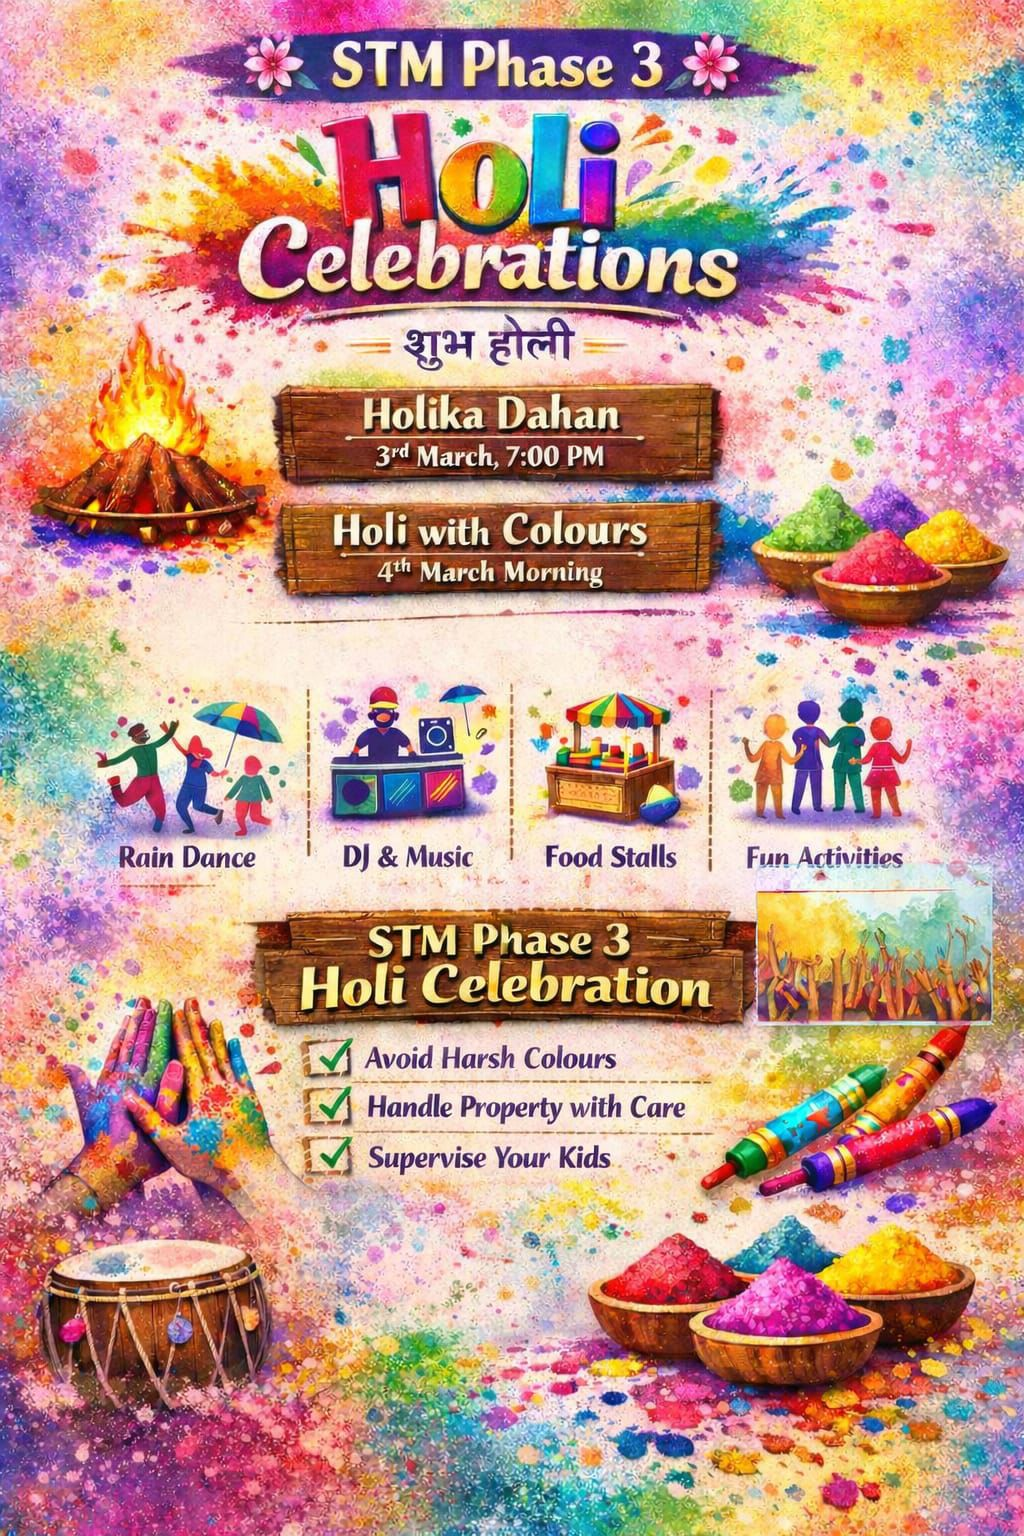
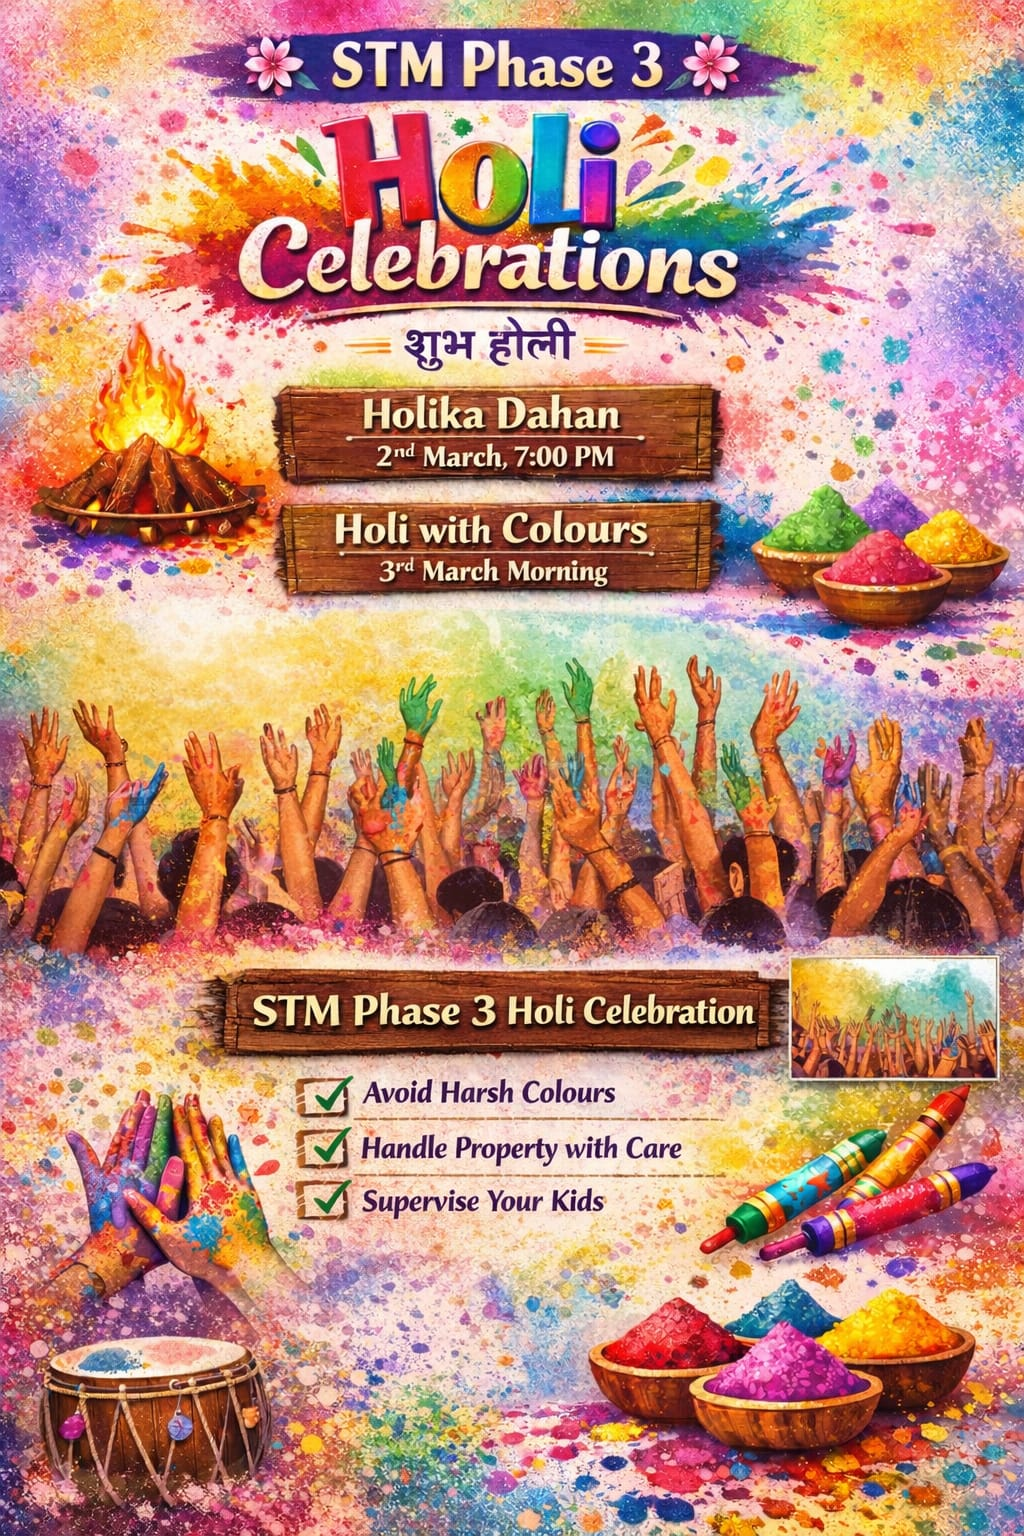
commit

diff --git a/seed-vercel.ts b/seed-vercel.ts
@@ -28,7 +28,7 @@ async function main() {
       },
       {
         title: "Upcoming: STM Phase 3 Holi Celebrations!",
-        message: "Join us for Holi celebrations! Holika Dahan on March 3rd at 7:00 PM, followed by Holi with Colours on March 4th Morning. Featuring Rain Dance, DJ, Food Stalls, and Fun Activities for everyone."
+        message: "STM Phase 3 🌸 Holi Celebrations 🌸 शुभ होली\n\n🔥 Holika Dahan: 2nd March, 7:00 PM\n\n🎨 Holi with Colours: 3rd March Morning\n\nSTM Phase 3 Holi Celebration\n\n✔ Avoid Harsh Colours\n✔ Handle Property with Care\n✔ Supervise Your Kids"
       },
       {
         title: "Flash News: Women's Day LIVA EXPO! 🌟",
@@ -78,8 +78,8 @@ async function main() {
       },
       {
         title: "STM Phase 3 Holi Celebrations",
-        description: "शुभ होली (Happy Holi) Holika Dahan: 3rd March, 7:00 PM Holi with Colours: 4th March, Morning Key Attractions: - Rain Dance - DJ & Music - Food Stalls - Fun Activities Community Guidelines: - Avoid Harsh Colours - Handle Property with Care - Supervise Your Kids",
-        date: new Date("2026-03-03"),
+        description: "STM Phase 3 🌸 Holi Celebrations 🌸 शुभ होली\n\n🔥 Holika Dahan: 2nd March, 7:00 PM\n\n🎨 Holi with Colours: 3rd March Morning\n\nKey Attractions:\n- Rain Dance\n- DJ & Music\n- Food Stalls\n- Fun Activities\n\nCommunity Guidelines:\n✔ Avoid Harsh Colours\n✔ Handle Property with Care\n✔ Supervise Your Kids",
+        date: new Date("2026-03-02"),
         time: "7:00 PM onwards",
         location: "STM Phase 3",
         category: "Celebration",

diff --git a/src/app/page.tsx b/src/app/page.tsx
@@ -77,7 +77,7 @@ export default function Home() {
       <section className="relative h-[600px] flex items-center justify-center overflow-hidden rounded-[40px] mx-4">
         <div className="absolute inset-0 z-0">
           <Image
-            src="/media/community/stm-entrance.jpg"
+            src="/media/community/stm-entrance.jpeg"
             alt="Community"
             fill
             className="object-cover brightness-50"
